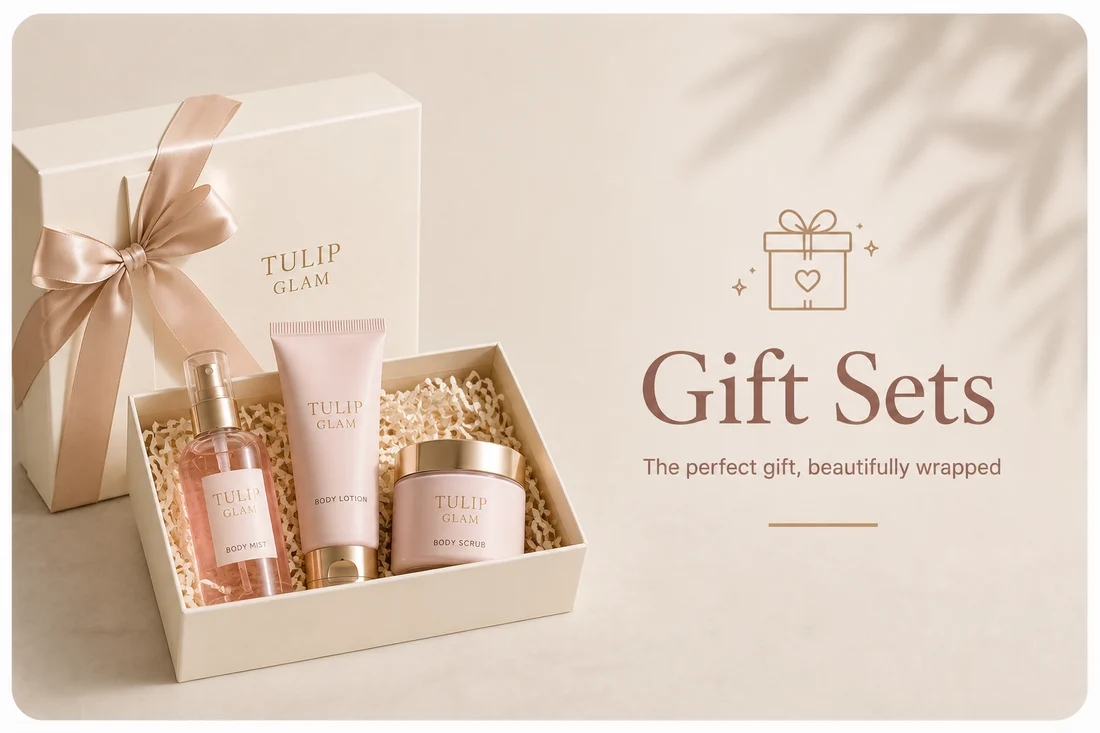
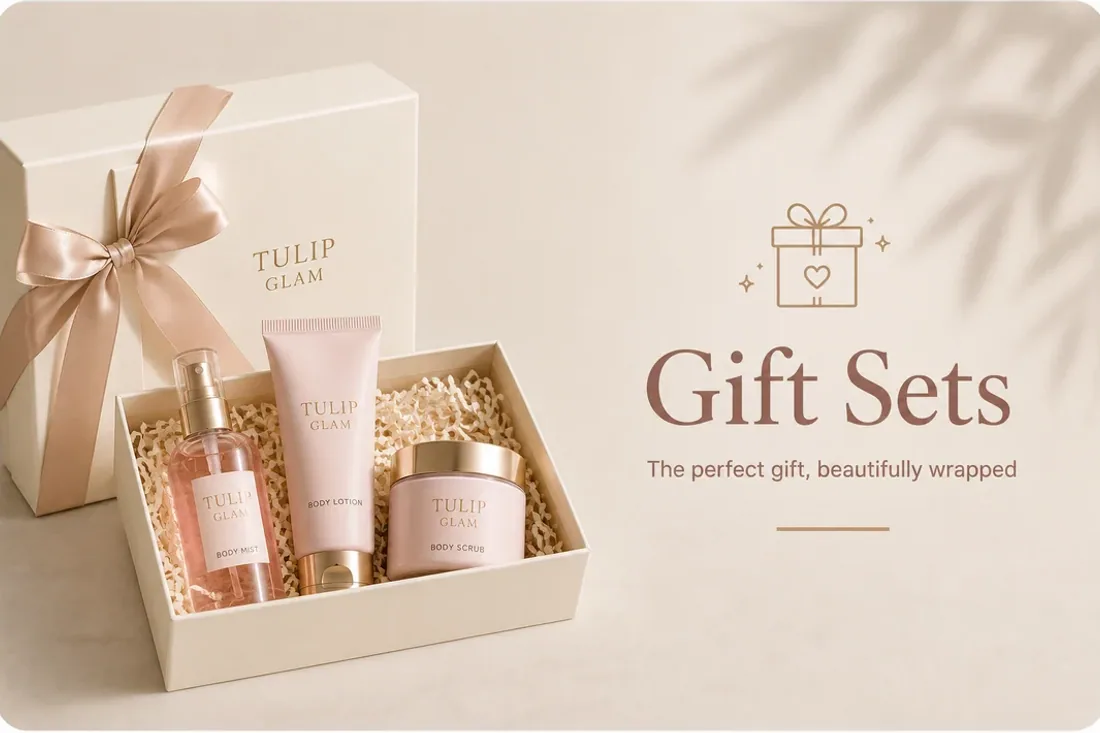
Drop the category card zoom, recompress the card artwork
Removes the per-category CATEGORY_ZOOM map and the .zoom-img rules, going back to
a plain object-cover image with the standard hover scale. Recompresses the six
category card images, roughly 25% smaller with no visible change.

diff --git a/web/src/pages/Home.tsx b/web/src/pages/Home.tsx
@@ -1,4 +1,4 @@
-import { useCallback, useEffect, useRef, useState, type CSSProperties } from "react";
+import { useCallback, useEffect, useRef, useState } from "react";
 import { Link } from "react-router-dom";
 import { api, usd } from "../lib/api";
 import { useStore } from "../lib/store";
@@ -21,13 +21,6 @@ const CATEGORY_IMG: Record<string, string> = {
   hair: "/category/hair.webp",
   fragrance: "/category/fragrance.webp",
   "gift-sets": "/category/gift-sets.webp",
-};
-
-// Zoom per category card. 1 = the artwork as exported; higher crops the pale outer
-// margin so the products sit larger in the frame. Keep it modest — the label is
-// baked into the image, so a big number will clip the text.
-const CATEGORY_ZOOM: Record<string, number> = {
-  makeup: 1.15,
 };
 
 function SectionHead({ eyebrow, title, to }: { eyebrow: string; title: string; to?: string }) {
@@ -183,13 +176,7 @@ export function Home() {
               {CATEGORY_IMG[c.slug] ? (
                 // self-contained card image (label + tagline are baked into the artwork)
                 <div className="aspect-[3/2] overflow-hidden" style={{ background: c.tint }}>
-                  <img
-                    src={CATEGORY_IMG[c.slug]}
-                    alt={c.name}
-                    loading="lazy"
-                    className="zoom-img h-full w-full object-cover"
-                    style={{ "--zoom": CATEGORY_ZOOM[c.slug] ?? 1 } as CSSProperties}
-                  />
+                  <img src={CATEGORY_IMG[c.slug]} alt={c.name} loading="lazy" className="h-full w-full object-cover transition-transform duration-300 group-hover:scale-105" />
                 </div>
               ) : (
                 <>

diff --git a/web/src/index.css b/web/src/index.css
@@ -109,16 +109,6 @@ body {
   display: none;
 }
 
-/* Card artwork zoom. Set --zoom on the element to crop in on the exported image;
-   the hover lift stays proportional so a zoomed image never scales back down. */
-.zoom-img {
-  transform: scale(var(--zoom, 1));
-  transition: transform 300ms;
-}
-.group:hover .zoom-img {
-  transform: scale(calc(var(--zoom, 1) * 1.05));
-}
-
 /* ---- buttons ---- */
 .btn {
   display: inline-flex;
